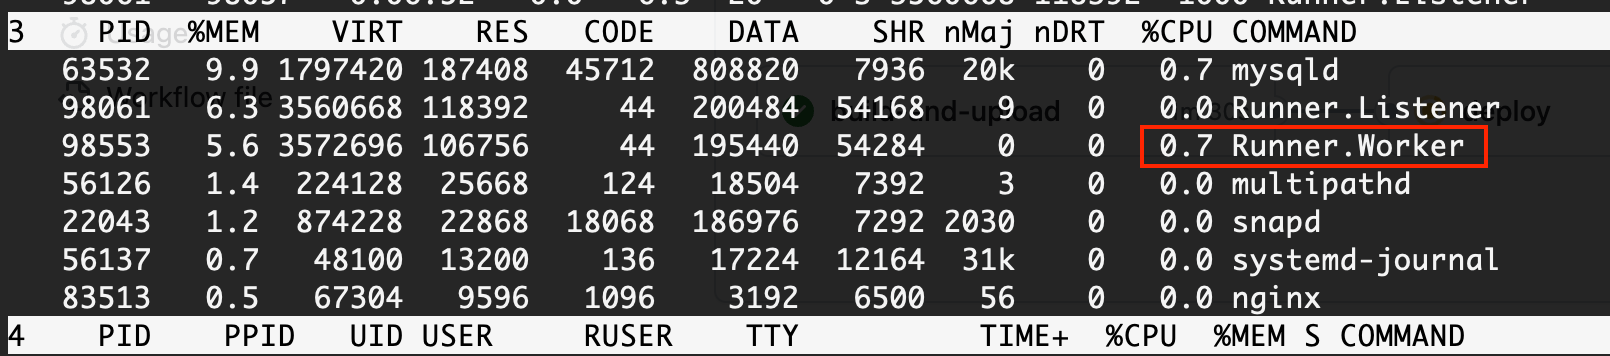
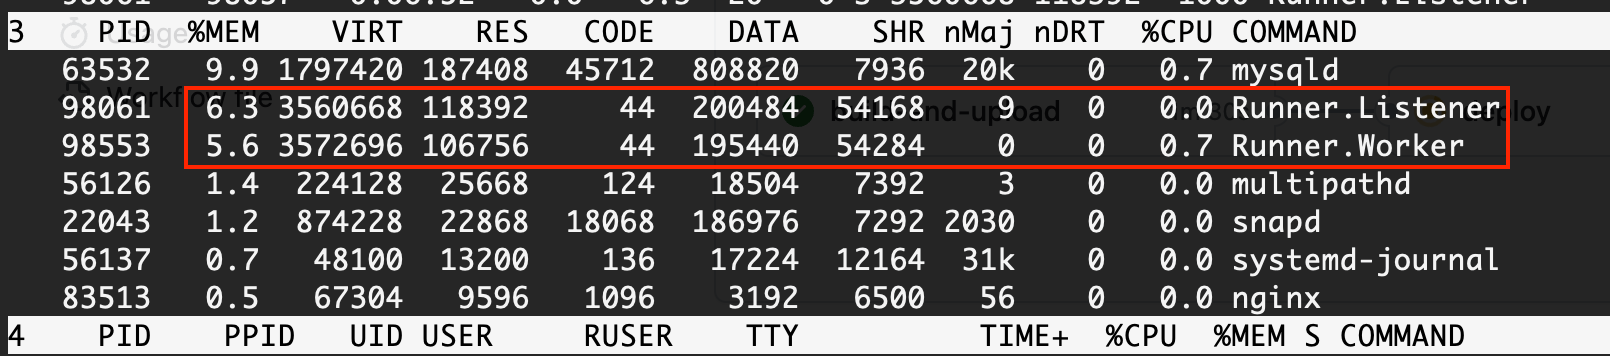
refactor: 이미지 자료 보완

diff --git a/contents/posts/github-actions-ci-cd/index.md b/contents/posts/github-actions-ci-cd/index.md
@@ -40,8 +40,12 @@ Jenkins와 GitHub Actions가 고려 대상이었습니다.
    - 실제로 한 팀원이 EC2 t2g.micro에 젠킨스 CI/CD를 적용했다가, 메모리가 부족해 서버가 죽는 과거의 경험을 공유해주었습니다.
    - 때문에 적어도 CI 만큼은 GitHub Actions로 분리해 테스트 실행을 외부 서비스에 위임하기로 했습니다.
    - 하지만 그렇다면, 간결한 파이프라인을 위해 CI/CD를 모두 GitHub Actions로 통합하는 것이 좋다고 판단했습니다.
-   > 실제로 가동중인 상황에서 확인해본 결과, 전체 메모리의 최대 0.7%만을 사용함을 알 수 있었습니다.   
+   > EC2에서 `./gradlew build`를 수행해 직접 빌드 및 테스트를 할 경우 아래와 같이 총 26.2%의 사용량이 확인되지만,  
+   ![ec2-build-usage.png](.index_image/ec2-build-usage.png)
+   > 그 대신 Actions Runner가 가동하는 상황을 확인해본 결과, 전체 메모리의 최대 11.9%만을 사용함을 알 수 있었습니다.   
    ![actions-runner-usage.png](.index_image/actions-runner-usage.png)
+   
+    
 2. 쉽고 빠른 적용 
    - GitHub 레포지토리에서 바로 설정이 가능해 기존 개발 환경과 통합해 사용 가능합니다.
    - YAML 파일 작성만으로도 쉽고 빠른 적용이 가능합니다.
@@ -238,7 +242,7 @@ on:
 
   pull_request:
     branches: [ develop ]
-    types: [closed]
+    types: [ closed ]
     paths: frontend/**
 
 permissions:
